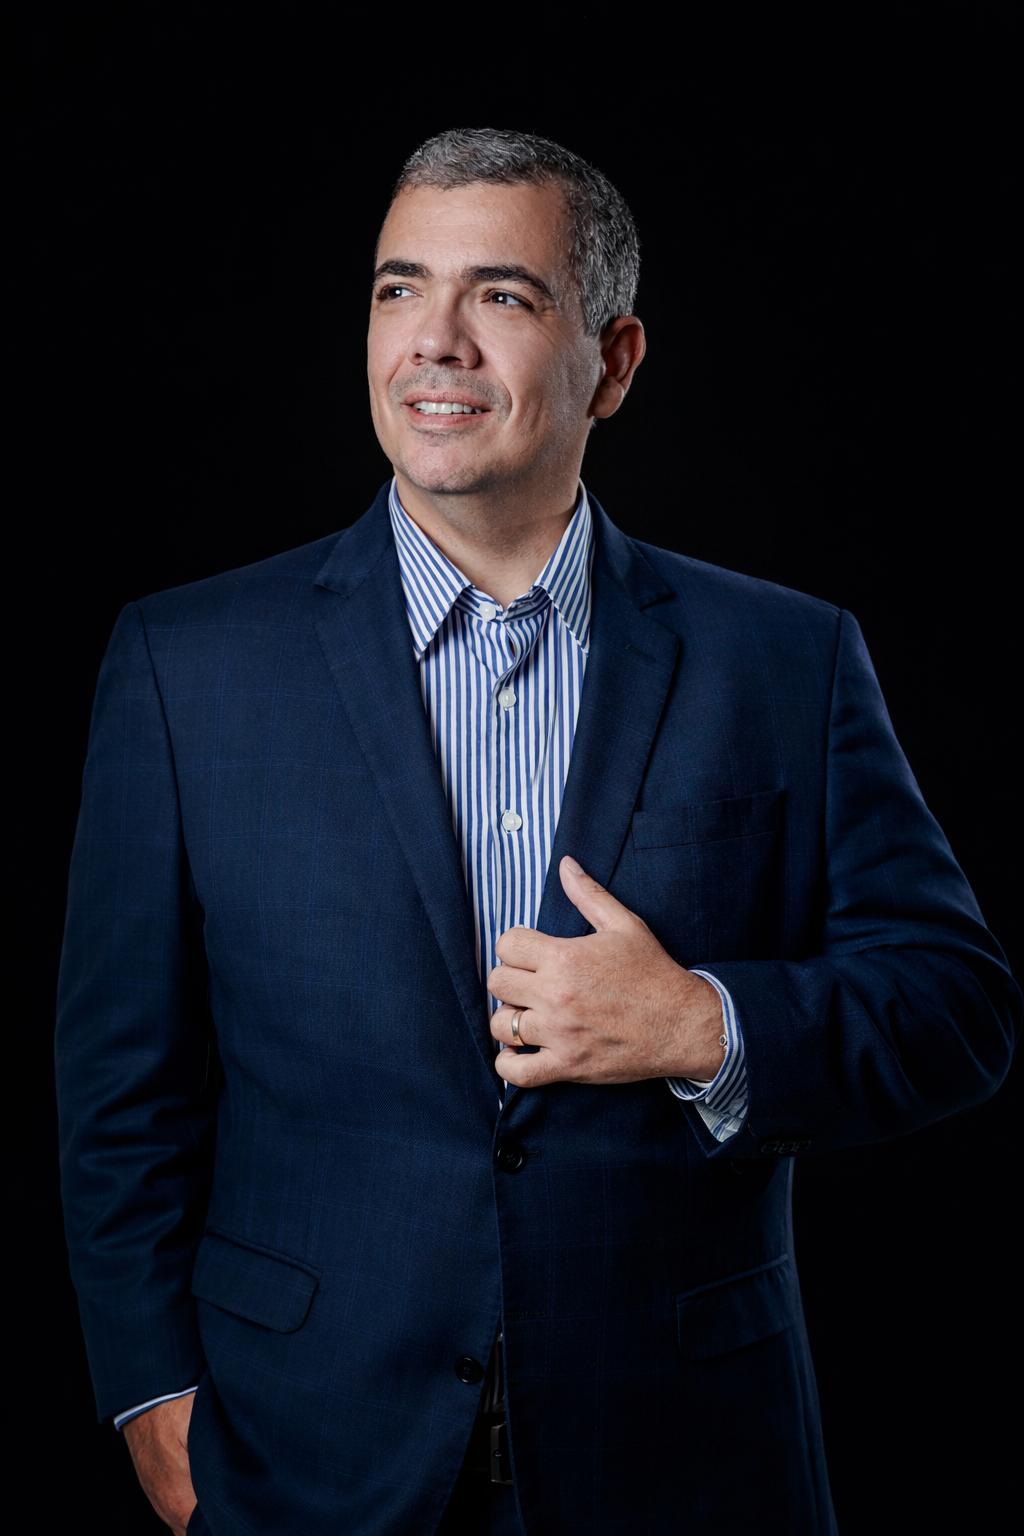
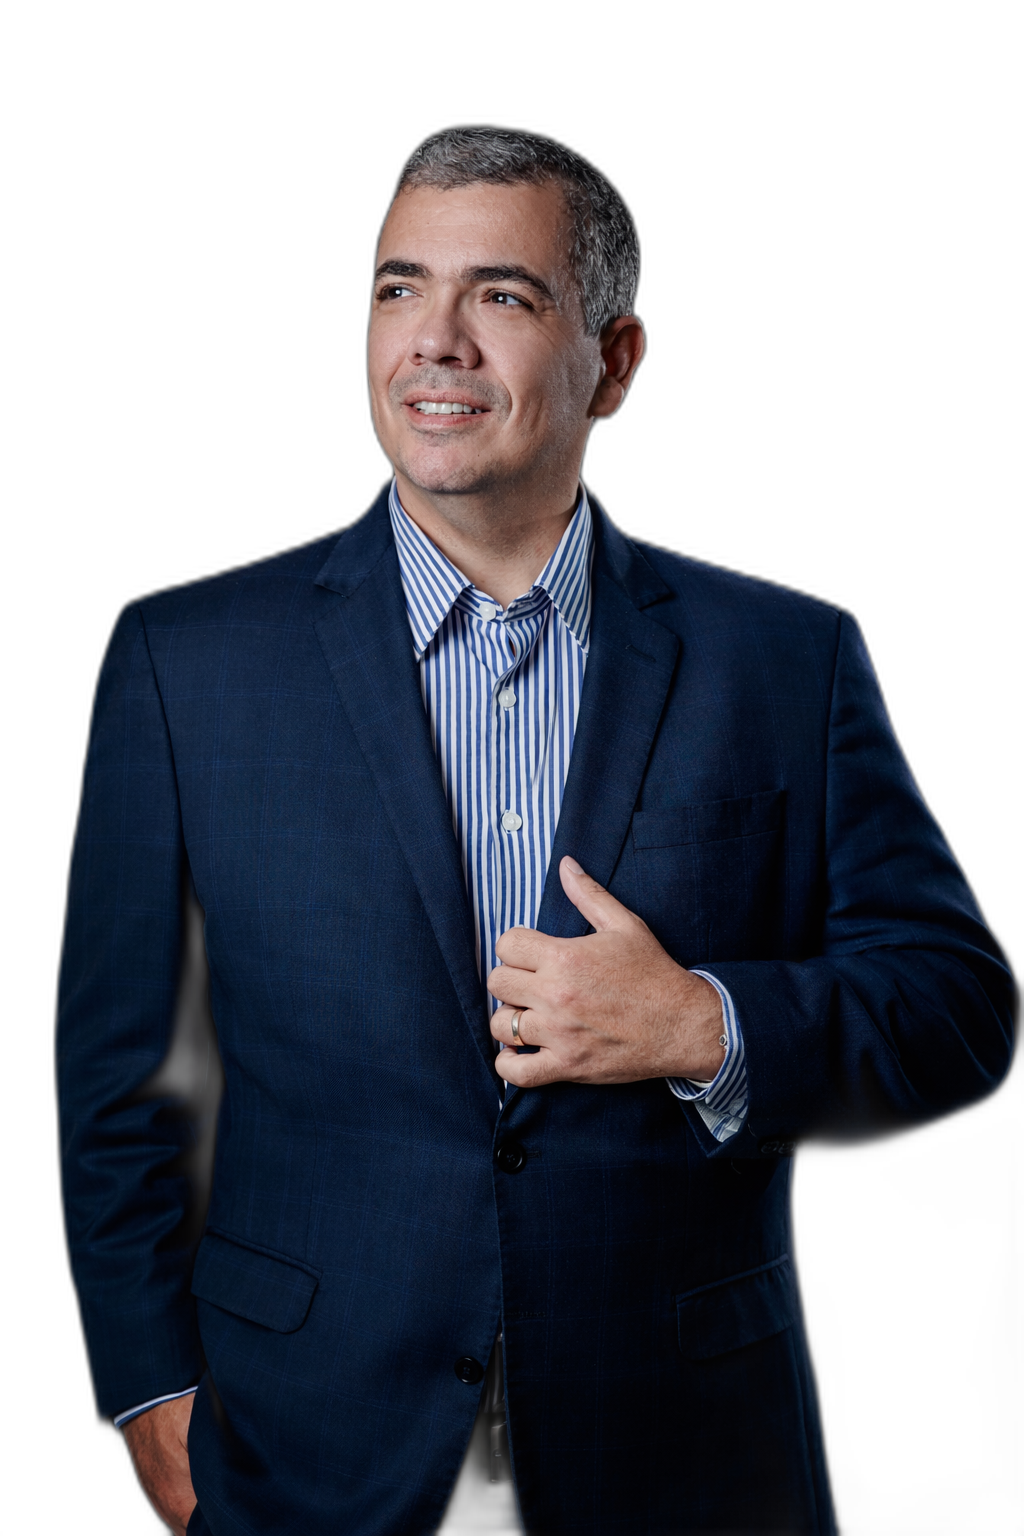
Remove background from Newton photo, restore section bg
Use transparent PNG for Newton Vieira photo so it blends
perfectly with any background color.

diff --git a/bhp/styles.css b/bhp/styles.css
@@ -174,7 +174,7 @@ section { padding: 100px 0; }
 .trainer-text p { color: var(--gray-light); font-size: 1.05rem; line-height: 1.8; margin-bottom: 16px; }
 
 /* ----- Mentor Section ----- */
-.section-mentor { background: #000; padding: 100px 0; overflow: hidden; }
+.section-mentor { background: var(--dark); padding: 100px 0; overflow: hidden; }
 .mentor-grid { display: grid; grid-template-columns: 1.3fr 1fr; gap: 48px; align-items: center; }
 .mentor-image { position: relative; display: flex; justify-content: center; }
 .mentor-photo { width: 100%; max-width: 400px; display: block; }
